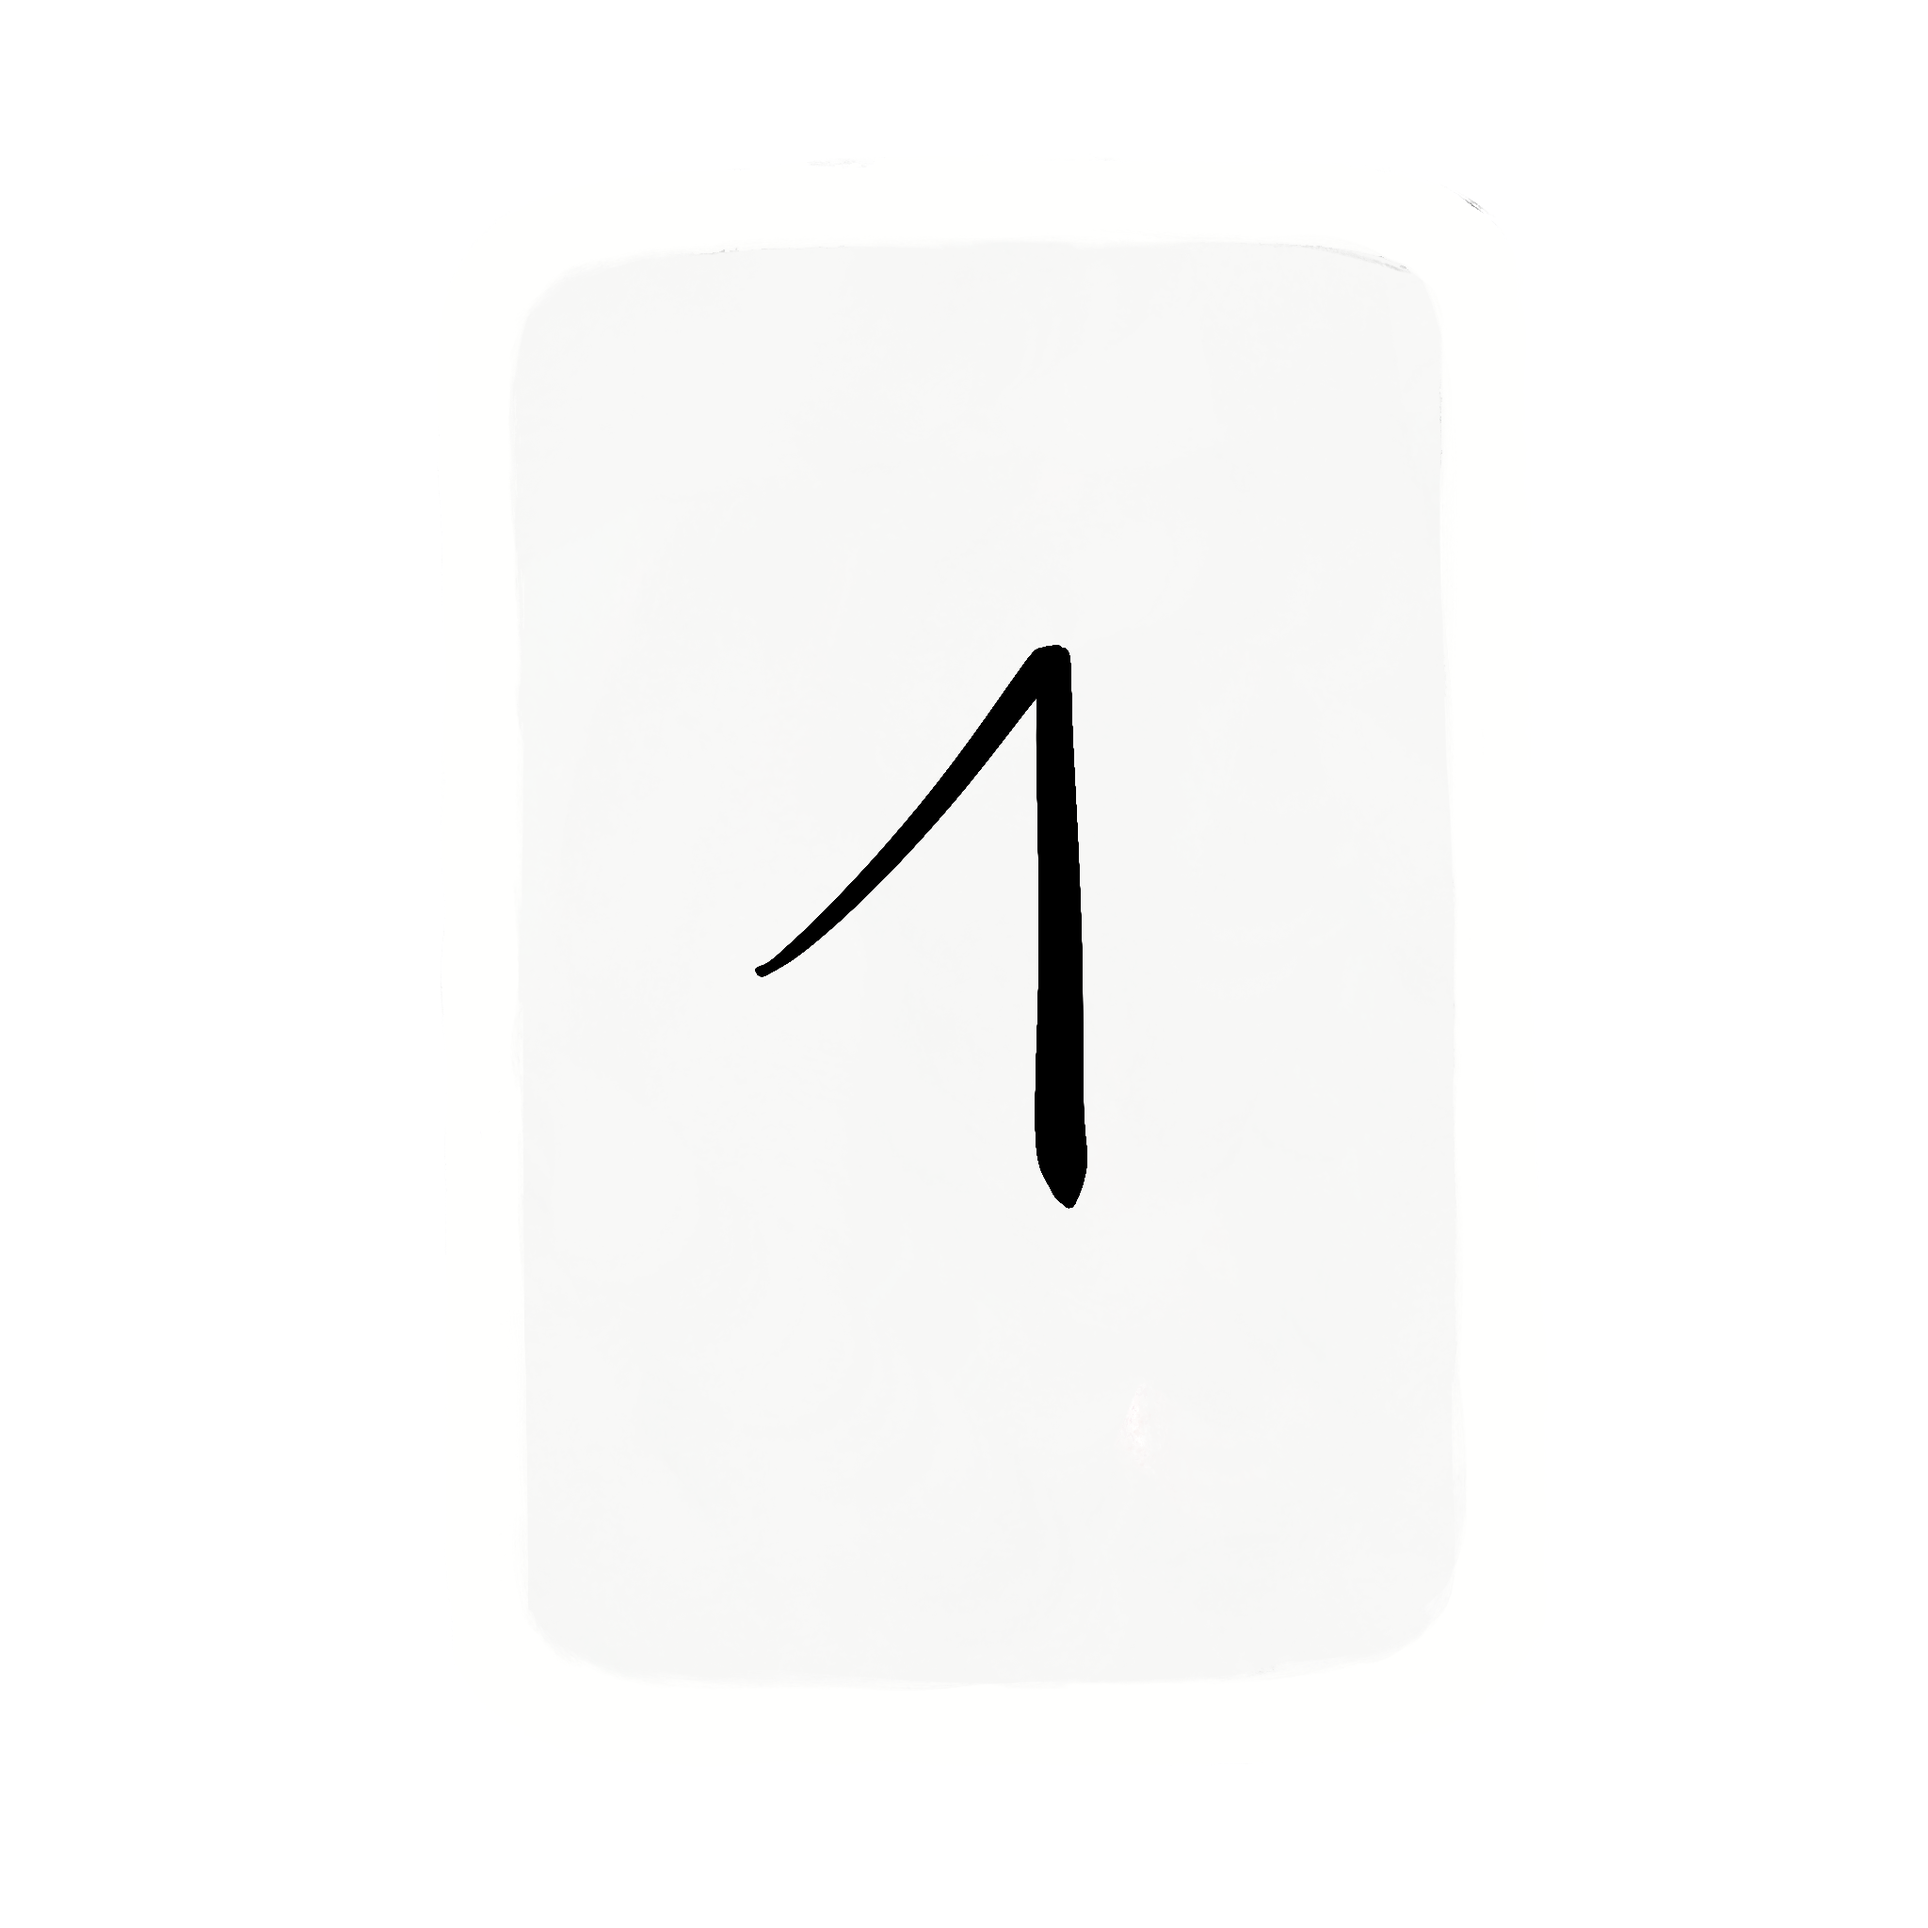
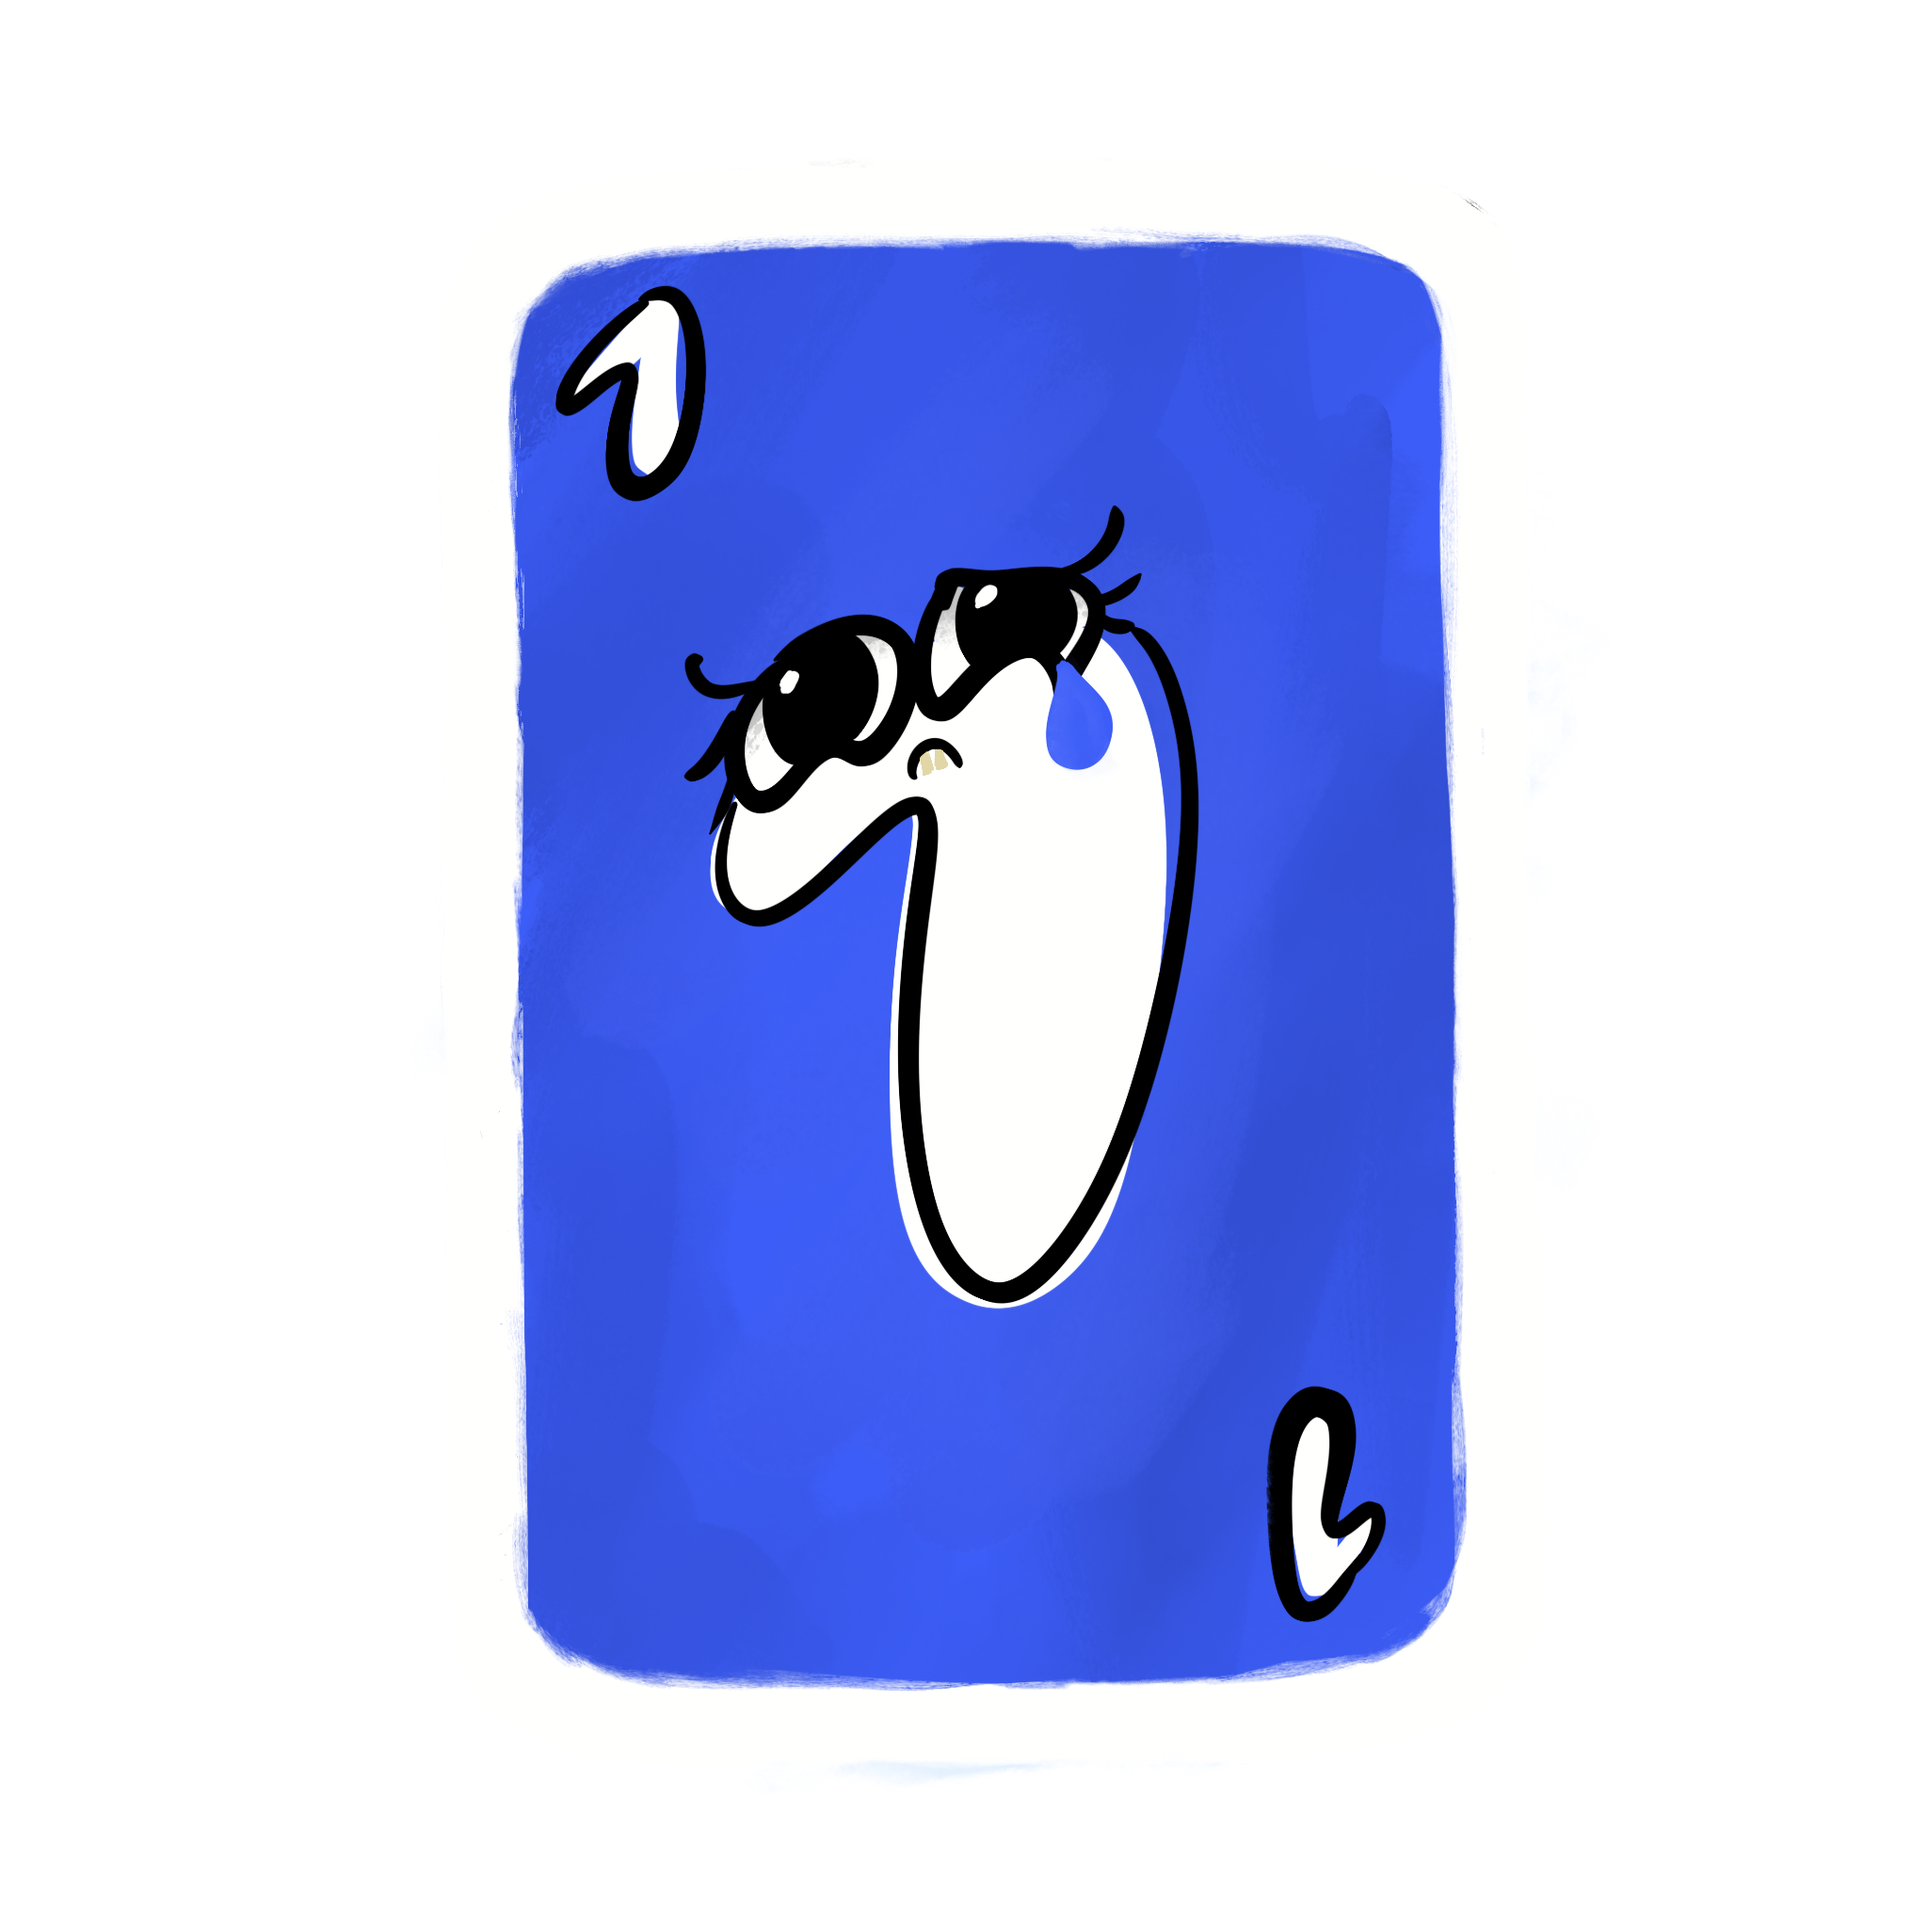
ajout cartes nbr 1-8

diff --git a/CHANGELOG.md b/CHANGELOG.md
@@ -478,6 +478,10 @@
 
 ## v.0.12: SPRINT 12
 
+### Added
+
+- Première partie des cartes nombres colorées
+
 ### Modified
 
 - Amélioration de la page Paramètres dans le style du Leaderboard
